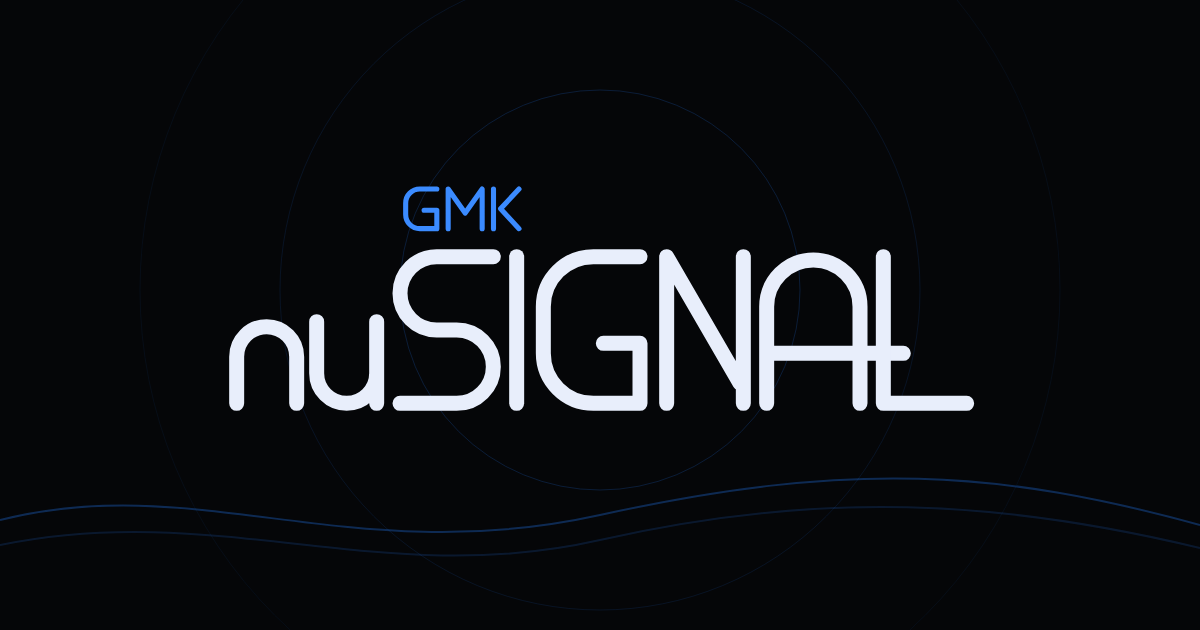
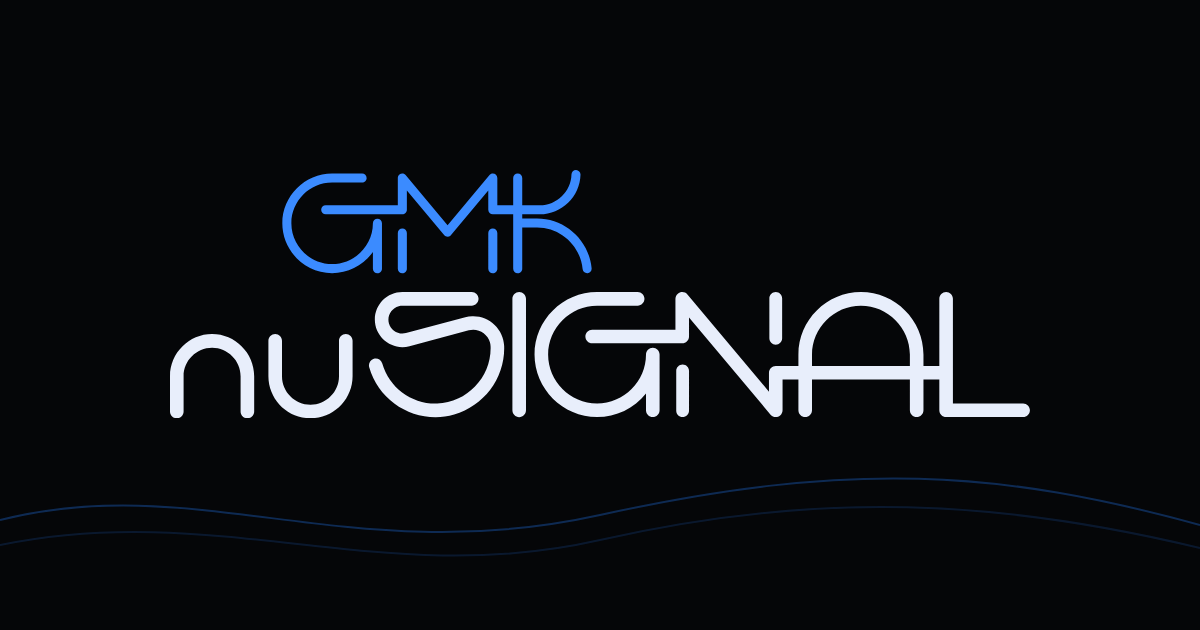
Use the real nuSignal wordmark everywhere
- Logo component, glitch canvas and kit placeholders draw the designer's SVG paths
- Footer close uses the wordmark instead of set type
- Share image regenerated with it

Claude-Session: https://claude.ai/code/session_01Y5Vr3JRbAug2e2L3JRjrk6

Changed region(s): [[0.1233, 0.2714, 0.8633, 0.6635]]

diff --git a/components/brand/nusignal-logo.tsx b/components/brand/nusignal-logo.tsx
@@ -1,23 +1,11 @@
 import { cn } from "@/lib/utils";
 
-/** Hand-drawn stroke paths for the "GMK" mini wordmark (viewBox 0 0 90 36). */
-export const GMK_PATHS = [
-  "M26 4 H14 a10 10 0 0 0 -10 10 V22 a10 10 0 0 0 10 10 H26 V19 H17",
-  "M34 32 V4 L46 21 L58 4 V32",
-  "M66 4 V32 M84 4 L71 18 L84 32",
-];
-
-/** Hand-drawn stroke paths for "nuSIGNAL" (cap height 100). */
-export const WORD_PATHS = [
-  "M4 94 V66 a18 18 0 0 1 36 0 V94", // n
-  "M52 45 V76 a18 18 0 0 0 36 0 V45 V94", // u
-  "M158 6 H124 a22 22 0 0 0 0 44 H136 a22 22 0 0 1 0 44 H102", // S
-  "M172 6 V94", // I
-  "M246 6 H218 A30 30 0 0 0 188 36 V64 A30 30 0 0 0 218 94 H246 V58 H224", // G
-  "M262 94 V6 L306 82 M308 94 V6", // N (stencil break)
-  "M322 94 V36 A28 28 0 0 1 378 36 V94 M322 64 H404", // A, bar runs into L
-  "M392 6 V94 H442", // L
-];
+/* The set's wordmark, from the designer's SVG. Both paths are fills in the same 538.2 x 155.4 space. */
+export const LOGO_W = 538.2;
+export const LOGO_H = 155.4;
+export const WORD_TOP = 76; // "nuSIGNAL" occupies y 76..155.4; "GMK" sits above it
+export const GMK_PATH = "M142.567,61.728L142.567,39.408C142.567,37.853 143.846,36.573 145.401,36.573C146.956,36.573 148.236,37.853 148.236,39.408L148.236,61.728C148.236,63.283 146.956,64.563 145.401,64.563C143.846,64.563 142.567,63.283 142.567,61.728ZM147.577,3.218L173.707,34.505L199.836,3.218C200.375,2.574 201.172,2.2 202.012,2.2C203.567,2.2 204.847,3.48 204.847,5.035L204.847,22.029L214.768,22.029L214.768,5.035C214.768,3.48 216.047,2.2 217.602,2.2C219.158,2.2 220.437,3.48 220.437,5.035L220.437,22.029L231.419,22.029C242.087,22.029 250.941,13.419 251.24,2.755C251.283,1.201 252.598,-0.042 254.153,0.001C255.707,0.045 256.951,1.36 256.907,2.914C256.523,16.627 245.138,27.698 231.419,27.698L220.437,27.698L220.437,30.37L229.714,30.37C247.323,30.37 262.215,43.932 263.858,61.463C264.003,63.012 262.849,64.405 261.301,64.55C259.752,64.695 258.359,63.541 258.214,61.993C256.842,47.359 244.412,36.04 229.714,36.04L220.437,36.04L220.437,61.728C220.437,63.283 219.158,64.563 217.602,64.563C216.047,64.563 214.768,63.283 214.768,61.728L214.768,27.698L202.012,27.698C200.457,27.698 199.177,26.418 199.177,24.863L199.177,12.851L175.882,40.745C175.774,40.875 175.654,40.995 175.524,41.103C174.33,42.1 172.528,41.938 171.531,40.745L148.236,12.851L148.236,24.863C148.236,26.418 146.956,27.698 145.401,27.698L97.436,27.698C95.881,27.698 94.601,26.418 94.601,24.863C94.601,23.308 95.881,22.029 97.436,22.029L142.567,22.029L142.567,5.035C142.567,4.195 142.94,3.398 143.584,2.859C144.778,1.863 146.58,2.024 147.577,3.218ZM120.22,7.87L101.464,7.87C87.469,7.87 75.953,19.386 75.953,33.382C75.953,47.377 87.469,58.893 101.464,58.893C115.46,58.893 126.976,47.377 126.976,33.382C126.976,31.826 128.256,30.547 129.811,30.547C131.366,30.547 132.646,31.826 132.646,33.382L132.646,61.728C132.646,63.283 131.366,64.563 129.811,64.563C128.256,64.563 126.976,63.283 126.976,61.728L126.976,51.309C121.143,59.611 111.61,64.563 101.464,64.563C84.359,64.563 70.283,50.487 70.283,33.382C70.283,16.276 84.359,2.2 101.464,2.2L120.22,2.2C121.775,2.2 123.055,3.48 123.055,5.035C123.055,6.59 121.775,7.87 120.22,7.87ZM204.847,39.408L204.847,61.728C204.847,63.283 203.567,64.563 202.012,64.563C200.457,64.563 199.177,63.283 199.177,61.728L199.177,39.408C199.177,37.853 200.457,36.573 202.012,36.573C203.567,36.573 204.847,37.853 204.847,39.408Z";
+export const WORD_PATH = "M264.205,108.424C261.873,108.424 259.953,106.505 259.953,104.172C259.953,101.84 261.873,99.92 264.205,99.92L316.313,99.92L316.313,80.645C316.313,79.389 316.87,78.195 317.832,77.388C319.619,75.888 322.323,76.125 323.822,77.912L374.847,138.721L374.847,126.875C374.847,124.543 376.767,122.623 379.099,122.623L393.272,122.623L393.272,115.524C393.278,94.061 410.941,76.403 432.403,76.403C453.866,76.403 471.529,94.061 471.534,115.524L471.534,122.623L481.456,122.623L481.456,80.645C481.456,78.312 483.375,76.393 485.708,76.393C488.04,76.393 489.96,78.312 489.96,80.645L489.96,146.151L533.897,146.151C536.229,146.151 538.149,148.07 538.149,150.403C538.149,152.735 536.229,154.655 533.897,154.655L485.708,154.655C483.375,154.655 481.456,152.735 481.456,150.403L481.456,131.127L471.534,131.127L471.534,150.403C471.534,152.735 469.615,154.655 467.283,154.655C464.95,154.655 463.031,152.735 463.031,150.403L463.031,131.127L401.776,131.127L401.776,150.403C401.776,152.735 399.857,154.655 397.524,154.655C395.192,154.655 393.272,152.735 393.272,150.403L393.272,131.127L383.351,131.127L383.351,150.403C383.351,151.659 382.795,152.853 381.832,153.66C380.045,155.159 377.341,154.923 375.842,153.136L324.817,92.327L324.817,104.172C324.817,106.505 322.898,108.424 320.565,108.424L264.205,108.424ZM463.031,122.623L463.031,115.514C463.028,98.713 449.201,84.889 432.399,84.892C415.598,84.894 401.774,98.722 401.776,115.523L401.776,122.623L463.031,122.623ZM132.843,121.049C137.164,136.271 151.416,146.674 167.231,146.15C186.178,145.522 201.253,129.414 200.626,110.467C200.598,109.639 200.476,108.818 200.262,108.018C198.722,102.269 192.723,98.806 186.975,100.347L149.885,110.285C148.43,110.675 146.93,110.872 145.423,110.872C135.966,110.872 128.184,103.09 128.184,93.632C128.184,84.175 135.966,76.393 145.423,76.393L188.833,76.393C191.166,76.393 193.085,78.312 193.085,80.645C193.085,82.977 191.166,84.897 188.833,84.897L145.423,84.897C144.66,84.897 143.9,84.997 143.162,85.194C138.533,86.435 135.745,91.264 136.985,95.893C138.226,100.523 143.055,103.311 147.684,102.071L184.774,92.133C186.2,91.75 187.666,91.533 189.142,91.484C199.753,91.132 208.773,99.574 209.125,110.185C209.778,129.893 196.815,147.651 177.847,153.036C155.122,159.487 131.113,146.096 124.662,123.371C124.026,121.128 125.348,118.758 127.591,118.121C129.835,117.484 132.205,118.805 132.843,121.049ZM292.672,84.897L267.261,84.897C250.459,84.897 236.634,98.722 236.634,115.524C236.634,132.325 250.459,146.151 267.261,146.151C284.062,146.151 297.888,132.325 297.888,115.524C297.888,113.191 299.807,111.272 302.14,111.272C304.473,111.272 306.392,113.191 306.392,115.524L306.392,150.403C306.392,152.735 304.473,154.655 302.14,154.655C299.808,154.655 297.888,152.735 297.888,150.403L297.888,139.88C290.469,149.209 279.18,154.655 267.261,154.655C245.794,154.655 228.13,136.99 228.13,115.524C228.13,94.057 245.794,76.393 267.261,76.393L292.675,76.393C295.006,76.395 296.923,78.314 296.923,80.645C296.923,82.977 295.004,84.896 292.672,84.897ZM114.26,106.923L114.26,129.01C114.26,143.459 102.37,155.349 87.921,155.349C73.472,155.349 61.582,143.459 61.582,129.01L61.582,106.923C61.582,104.59 63.501,102.671 65.834,102.671C68.166,102.671 70.086,104.59 70.086,106.923L70.086,129.01C70.086,138.794 78.137,146.845 87.921,146.845C97.705,146.845 105.756,138.794 105.756,129.01L105.756,106.923C105.756,104.59 107.675,102.671 110.008,102.671C112.341,102.671 114.26,104.59 114.26,106.923ZM44.174,151.097L44.174,129.01C44.174,119.226 36.123,111.175 26.339,111.175C16.555,111.175 8.504,119.226 8.504,129.01L8.504,151.097C8.504,153.43 6.585,155.349 4.252,155.349C1.919,155.349 0,153.43 0,151.097L0,129.01C0,114.561 11.89,102.671 26.339,102.671C40.788,102.671 52.678,114.561 52.678,129.01L52.678,151.097C52.678,153.43 50.759,155.349 48.426,155.349C46.094,155.349 44.174,153.43 44.174,151.097ZM214.278,80.645C214.278,78.312 216.198,76.393 218.53,76.393C220.863,76.393 222.782,78.312 222.782,80.645L222.782,150.421C222.782,152.753 220.863,154.673 218.53,154.673C216.198,154.673 214.278,152.753 214.278,150.421L214.278,80.645ZM324.817,150.652L324.816,150.736C324.77,152.932 322.925,154.7 320.73,154.654C318.534,154.608 316.766,152.763 316.812,150.568L316.811,125.758C316.811,123.563 318.618,121.756 320.814,121.756C323.01,121.756 324.817,123.562 324.817,125.758L324.817,150.652ZM383.089,105.089C383.093,105.156 383.094,105.223 383.094,105.289C383.094,107.485 381.287,109.292 379.091,109.292C376.896,109.292 375.089,107.485 375.089,105.289L375.089,80.395C375.089,78.199 376.896,76.393 379.092,76.393C381.288,76.394 383.095,78.201 383.094,80.396L383.089,105.089Z";
 
 type LogoProps = {
   className?: string;
@@ -35,33 +23,19 @@ export function NuSignalLogo({
   title = "GMK nuSignal",
 }: LogoProps) {
   return (
-    <svg
-      viewBox="0 0 456 156"
-      role="img"
-      aria-label={title}
-      className={cn("text-[#e8eefb]", className)}
-      fill="none"
-      strokeLinecap="round"
-      strokeLinejoin="round"
-    >
+    <svg viewBox={`0 0 ${LOGO_W} ${LOGO_H}`} role="img" aria-label={title} className={cn("text-[#e8eefb]", className)} fillRule="evenodd">
       <title>{title}</title>
-      <g transform="translate(108 14) scale(0.85)" stroke={gmkColor} strokeWidth={3.6}>
-        {GMK_PATHS.map((d) => <path key={d} d={d} />)}
-      </g>
-      <g transform="translate(6 52)" stroke={wordColor} strokeWidth={9}>
-        {WORD_PATHS.map((d) => <path key={d} d={d} />)}
-      </g>
+      <path d={GMK_PATH} fill={gmkColor} />
+      <path d={WORD_PATH} fill={wordColor} />
     </svg>
   );
 }
 
-/** Tiny standalone mark: "nu" in a signal-blue broadcast arc. */
-export function NuSignalMark({ className }: { className?: string }) {
+/** "nuSIGNAL" alone, cropped to the word, for the footer close. */
+export function NuSignalWord({ className }: { className?: string }) {
   return (
-    <svg viewBox="0 0 64 64" className={cn("text-signal-bright", className)} fill="none"
-      stroke="currentColor" strokeLinecap="round" strokeLinejoin="round" aria-hidden>
-      <path d="M12 44 V34 a7 7 0 0 1 14 0 V44 M38 26 V38 a7 7 0 0 0 14 0 V26 V44" strokeWidth={4} />
-      <path d="M8 18 a32 32 0 0 1 48 0" strokeWidth={3} opacity={0.6} />
+    <svg viewBox={`0 ${WORD_TOP} ${LOGO_W} ${LOGO_H - WORD_TOP}`} aria-hidden className={className} fillRule="evenodd">
+      <path d={WORD_PATH} fill="currentColor" />
     </svg>
   );
 }

diff --git a/components/sections/signal-loss.tsx b/components/sections/signal-loss.tsx
@@ -2,7 +2,7 @@
 
 import { useEffect, useRef } from "react";
 
-import { GMK_PATHS, WORD_PATHS } from "@/components/brand/nusignal-logo";
+import { GMK_PATH, LOGO_H, LOGO_W, WORD_PATH } from "@/components/brand/nusignal-logo";
 import Hero from "@/components/sections/hero";
 
 /*
@@ -82,8 +82,8 @@ export default function SignalLoss() {
     const bctx = buf.getContext("2d")!;
     const scratch = document.createElement("canvas");
     const sctx = scratch.getContext("2d")!;
-    const gmk = GMK_PATHS.map((d) => new Path2D(d));
-    const word = WORD_PATHS.map((d) => new Path2D(d));
+    const gmk = new Path2D(GMK_PATH);
+    const word = new Path2D(WORD_PATH);
 
     // fine grain: a few pre-rendered 1px noise tiles, offset randomly per frame
     const TILE = 128;
@@ -211,25 +211,19 @@ export default function SignalLoss() {
       if (logoStale) {
         // relative to the hero wrapper, so its offscreen transform does not matter
         const r = logoEl.getBoundingClientRect(), o = heroWrap.getBoundingClientRect();
-        logo = { x: r.left - o.left, y: r.top - o.top + (r.height - (r.width * 156) / 456) / 2, w: r.width };
+        logo = { x: r.left - o.left, y: r.top - o.top + (r.height - (r.width * LOGO_H) / LOGO_W) / 2, w: r.width };
         logoStale = false;
       }
-      // same geometry as <NuSignalLogo> (viewBox 456x156), drawn into the DOM logo's rect
-      const k = (logo.w / 456) * dpr;
+      // same geometry as <NuSignalLogo>, drawn into the DOM logo's rect
+      const k = (logo.w / LOGO_W) * dpr;
       sctx.setTransform(1, 0, 0, 1, 0, 0);
       sctx.globalCompositeOperation = "source-over";
       sctx.clearRect(0, 0, scratch.width, scratch.height);
-      sctx.lineCap = "round";
-      sctx.lineJoin = "round";
-      const stroke = (paths: Path2D[], color: string, lw: number) => {
-        sctx.strokeStyle = color;
-        sctx.lineWidth = lw;
-        paths.forEach((d) => sctx.stroke(d));
-      };
-      sctx.setTransform(k * 0.85, 0, 0, k * 0.85, logo.x * dpr + 108 * k, logo.y * dpr + 14 * k);
-      stroke(gmk, "#3b8bff", 3.6);
-      sctx.setTransform(k, 0, 0, k, logo.x * dpr + 6 * k, logo.y * dpr + 52 * k);
-      stroke(word, "#e8eefb", 9);
+      sctx.setTransform(k, 0, 0, k, logo.x * dpr, logo.y * dpr);
+      sctx.fillStyle = "#3b8bff";
+      sctx.fill(gmk, "evenodd");
+      sctx.fillStyle = "#e8eefb";
+      sctx.fill(word, "evenodd");
       sctx.setTransform(1, 0, 0, 1, 0, 0);
       // one shadow for the whole mark, matching the DOM logo's drop-shadow
       c.shadowColor = "rgba(31,111,224,0.35)";
@@ -249,14 +243,15 @@ export default function SignalLoss() {
         // placeholder: cap-black square with a faint "nu" from the logo paths
         c.fillStyle = "#0d0f13";
         c.fillRect(x, y, s, s);
-        const k = (s * 0.3) / 90; // "nu" spans ~90 x 50 logo units
+        const k = (s * 0.3) / 114; // the "nu" of the wordmark spans x 0..114, y 103..155
         c.save();
-        c.translate(x + s / 2 - 45 * k, y + s / 2 - 70 * k);
+        c.translate(x + s / 2 - 57 * k, y + s / 2 - 129 * k);
         c.scale(k, k);
-        c.lineCap = c.lineJoin = "round";
-        c.strokeStyle = "rgba(59,139,255,0.3)";
-        c.lineWidth = 9;
-        word.slice(0, 2).forEach((path) => c.stroke(path));
+        c.beginPath();
+        c.rect(0, 100, 118, 60);
+        c.clip();
+        c.fillStyle = "rgba(59,139,255,0.3)";
+        c.fill(word, "evenodd");
         c.restore();
         return;
       }

diff --git a/components/sections/footer.tsx b/components/sections/footer.tsx
@@ -1,4 +1,5 @@
 import Link from "next/link";
+import { NuSignalWord } from "@/components/brand/nusignal-logo";
 import { AtSign, Camera, Code2, MessageCircle } from "lucide-react";
 
 // TODO: real designer credit and social URLs. lucide dropped brand logos, hence generic glyphs.
@@ -27,9 +28,7 @@ export default function Footer() {
           ))}
         </ul>
       </div>
-      <p aria-hidden className="mx-auto w-full max-w-[1440px] whitespace-nowrap font-display text-[19vw] leading-[0.8] tracking-tight text-signal lg:text-[min(18vw,17rem)]">
-        nuSIGNAL
-      </p>
+      <NuSignalWord className="wrap mx-auto w-full max-w-[1440px] text-signal" />
       <div className="wrap mx-auto flex w-full max-w-[1440px] justify-between py-6 font-mono text-sm">
         <span>
           © nuSignal · <Link href="/privacy/" className="-my-3 inline-block py-3 underline underline-offset-4 hover:text-[#cfe0ff] focus-visible:outline-2 focus-visible:outline-signal-bright">Privacy</Link>
